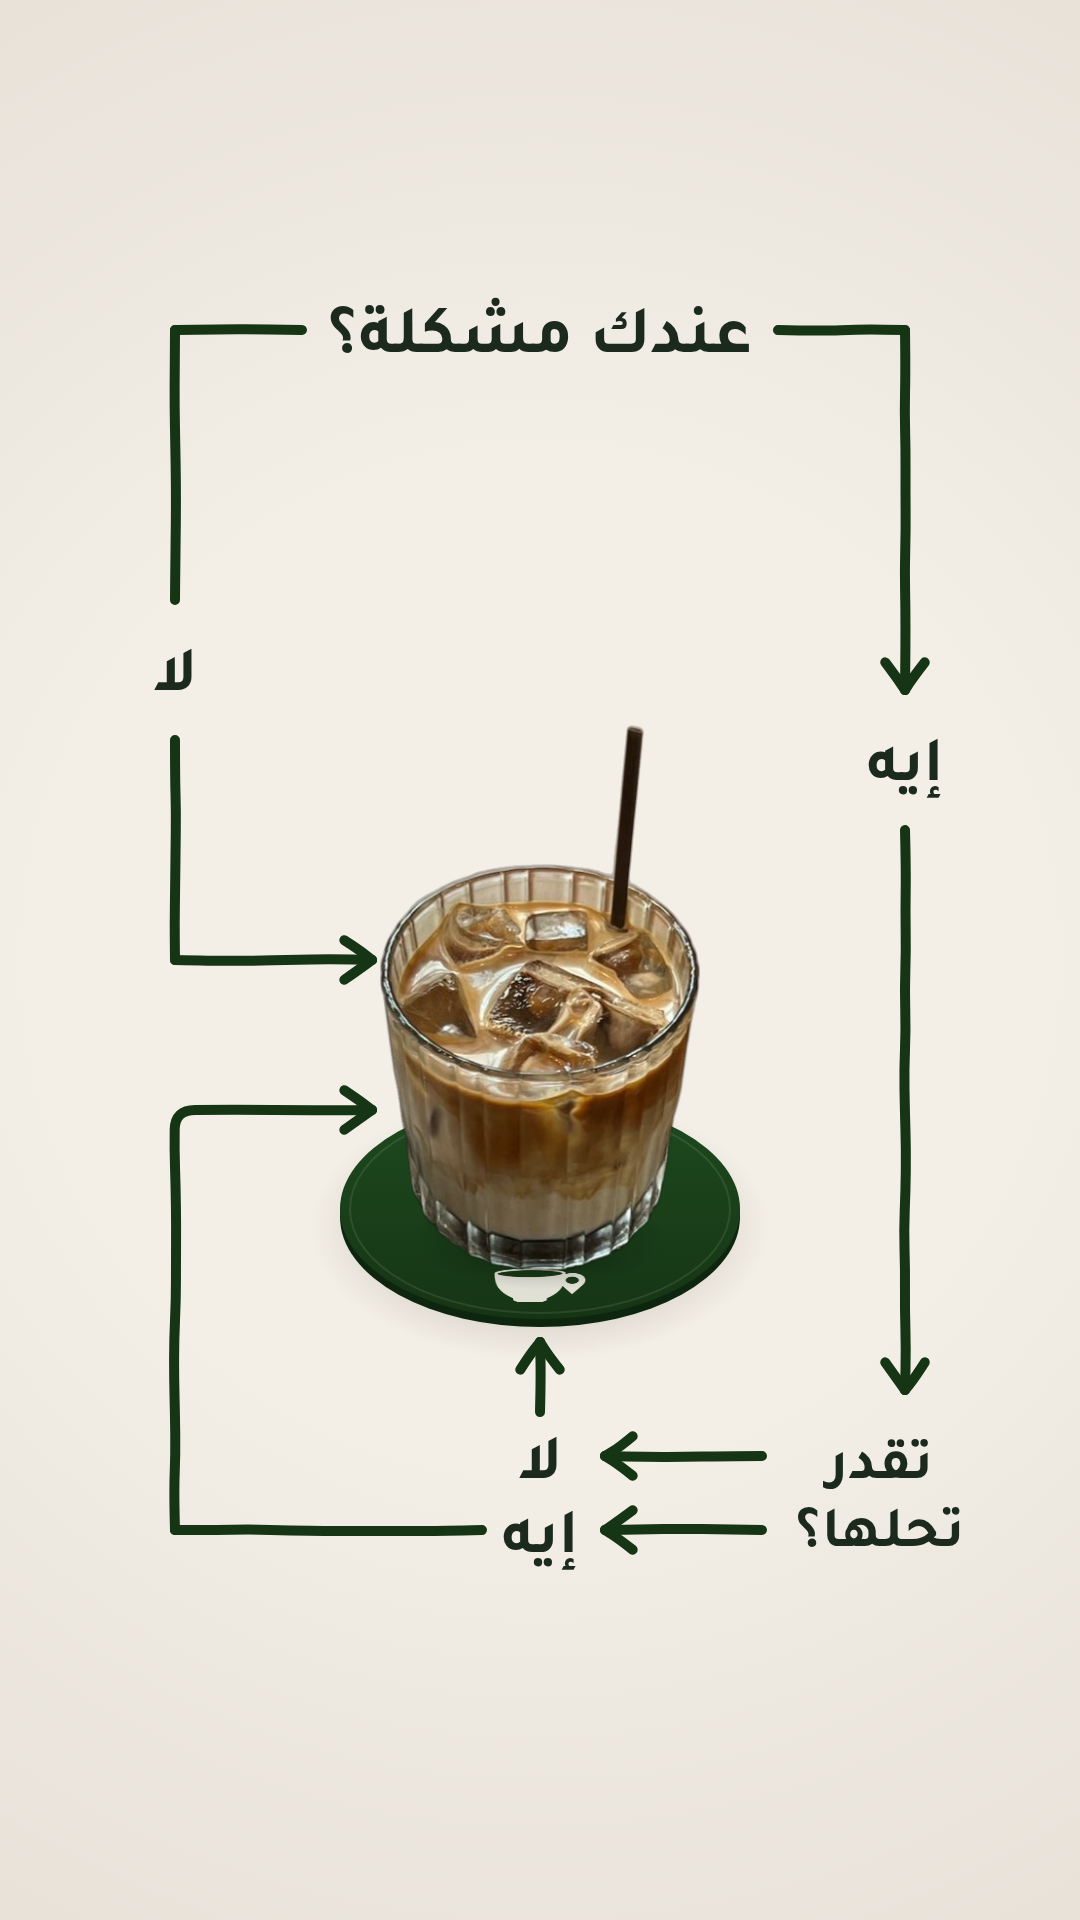
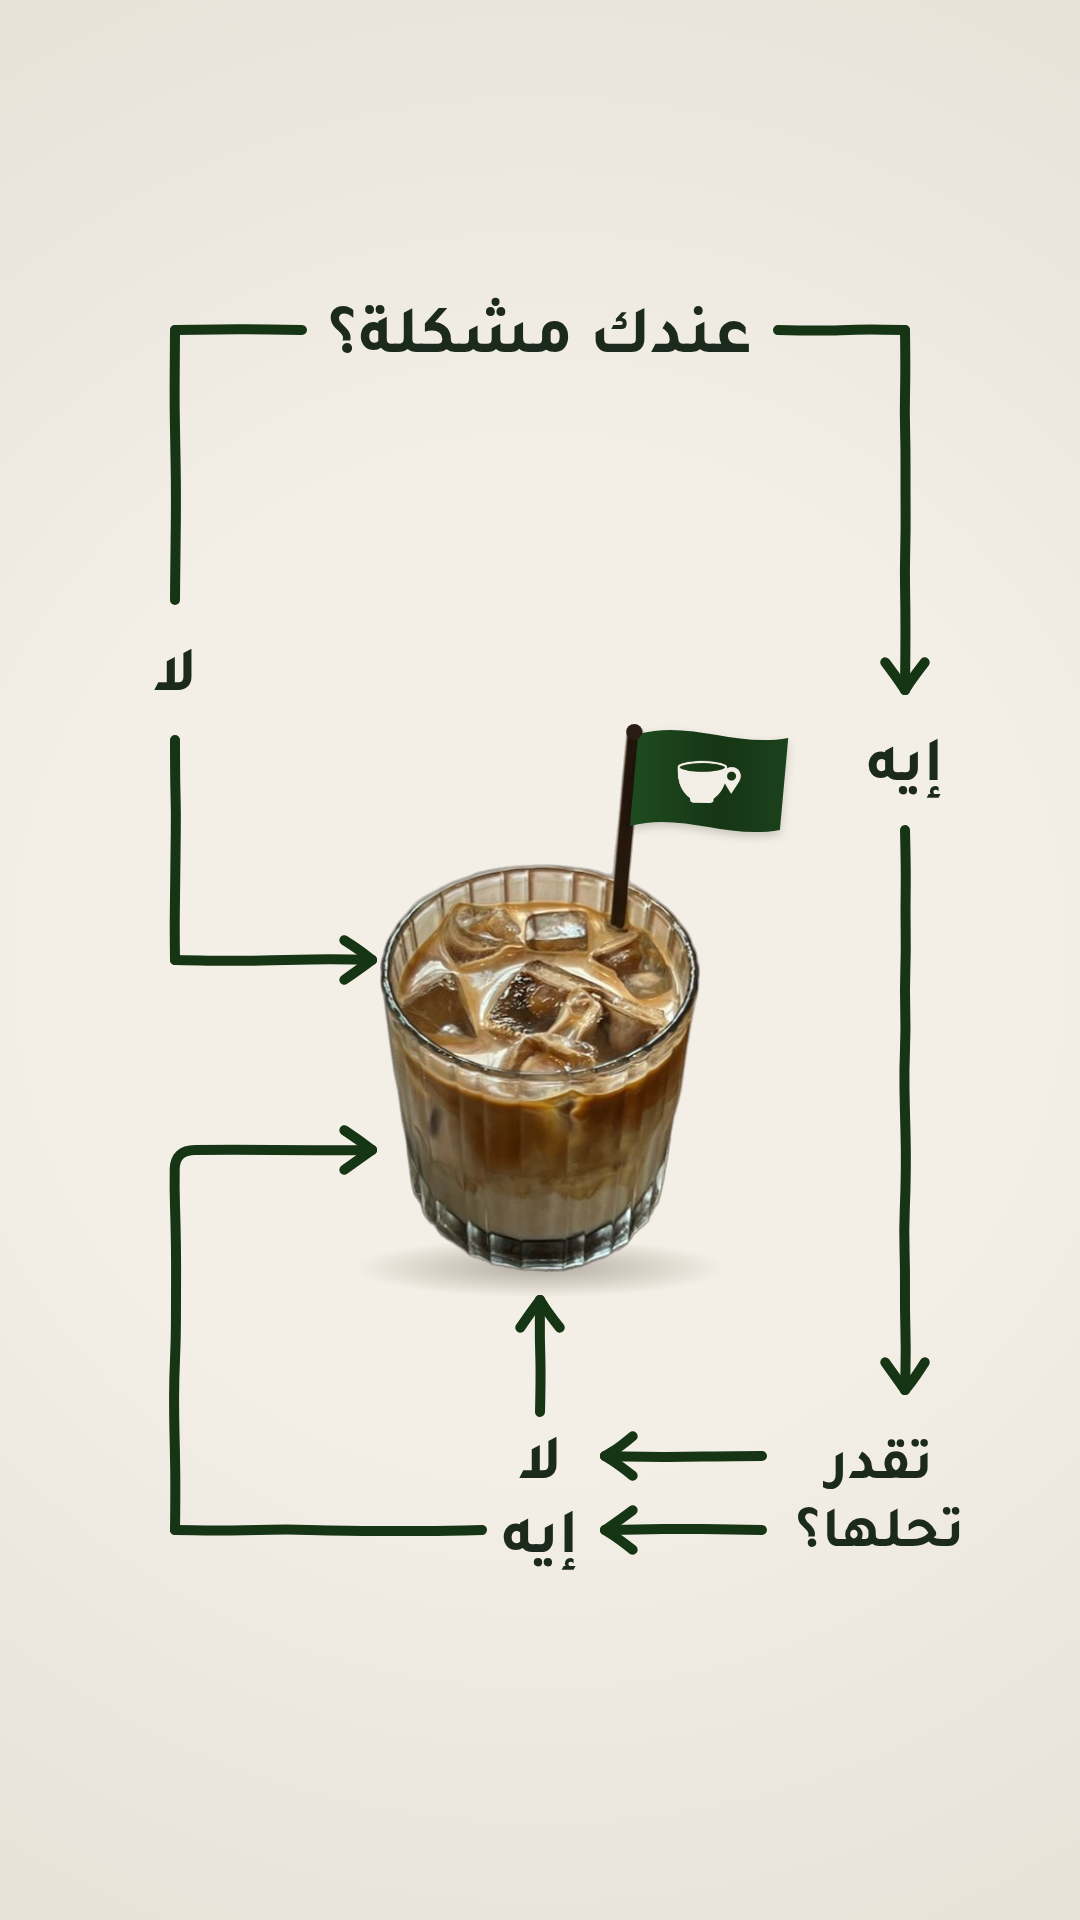
Flowchart story: BrewMaps flag on the straw instead of the coaster (Arabic and English)
Claude-Session: https://claude.ai/code/session_01UCKVHF8Bj15Neb29ir5cAN

Changed region(s): [[0.1528, 0.5625, 0.7028, 0.7188], [0.5806, 0.375, 0.7333, 0.4375]]

diff --git a/marketing/posts/coffee-flowchart-story/story.html b/marketing/posts/coffee-flowchart-story/story.html
@@ -42,25 +42,29 @@ window.ready = (async () => {
   hand([[175, 740], [175, 960]]); arrow([[175, 960], [372, 960]]);
   // the coffee, centred
   const cw = 320, ch = cw * cup.height / cup.width, cx = 540 - cw / 2, cy = 1272 - ch;
-  // the BrewMaps coaster: brand green, in the photo's perspective (ellipse ≈ 0.55 of its width), the cream mark printed
-  // on the front band; the glass stands on it
-  const bx = 540, by = 1209, rx = 200, ry = 110;
-  let sh = c.createRadialGradient(bx, by + 18, 20, bx, by + 18, 230); sh.addColorStop(0, 'rgba(30,22,10,0.30)'); sh.addColorStop(1, 'rgba(30,22,10,0)');
-  c.save(); c.translate(bx, by + 18); c.scale(1, 0.58); c.translate(-bx, -(by + 18)); c.fillStyle = sh; c.fillRect(bx - 240, by - 222, 480, 480); c.restore();
-  c.fillStyle = '#0E260F'; c.beginPath(); c.ellipse(bx, by + 8, rx, ry, 0, 0, Math.PI * 2); c.fill();          // the coaster's edge
-  let cg = c.createLinearGradient(0, by - ry, 0, by + ry); cg.addColorStop(0, '#1E4A1F'); cg.addColorStop(1, '#163514');
-  c.fillStyle = cg; c.beginPath(); c.ellipse(bx, by, rx, ry, 0, 0, Math.PI * 2); c.fill();                     // its top
-  c.save(); c.strokeStyle = 'rgba(244,239,230,0.10)'; c.lineWidth = 2; c.beginPath(); c.ellipse(bx, by, rx - 10, ry - 6, 0, 0, Math.PI * 2); c.stroke(); c.restore();
-  const mw = 92, mh = mw * mark.height / mark.width;
-  c.save(); c.translate(bx, by + 76); c.scale(1, 0.55); c.globalAlpha = 0.92; c.drawImage(mark, -mw / 2, -mh / 2, mw, mh); c.restore();   // the mark, lying flat on the front
-  const cs = c.createRadialGradient(bx, 1240, 5, bx, 1240, 125); cs.addColorStop(0, 'rgba(0,0,0,0.35)'); cs.addColorStop(1, 'rgba(0,0,0,0)');   // where the glass meets the coaster
-  c.save(); c.translate(bx, 1240); c.scale(1, 0.4); c.translate(-bx, -1240); c.fillStyle = cs; c.fillRect(bx - 130, 1110, 260, 260); c.restore();
+  const sh = c.createRadialGradient(540, 1268, 10, 540, 1268, 185); sh.addColorStop(0, 'rgba(40,30,15,0.3)'); sh.addColorStop(1, 'rgba(40,30,15,0)');
+  c.save(); c.translate(540, 1268); c.scale(1, 0.16); c.translate(-540, -1268); c.fillStyle = sh; c.fillRect(300, 1048, 480, 440); c.restore();
   c.drawImage(cup, cx, cy, cw, ch);
+  // the BrewMaps flag on the straw: a small pennant in brand green with the cream mark, hung from the straw's tip
+  // (the straw leans ~5° right as it rises), with a gentle wave in the cloth
+  { const s = cw / cup.width, tx = cx + 522 * s, ty = cy + 10 * s, ux = 0.091, L = 92, F = 150;   // tip, lean, hoist, fly
+    const p0 = [tx + 4, ty + 4], p1 = [tx + 4 - ux * L, ty + 4 + L];
+    const fg = c.createLinearGradient(p0[0], 0, p0[0] + F, 0); fg.addColorStop(0, '#1E4A1F'); fg.addColorStop(0.55, '#163514'); fg.addColorStop(1, '#1B421C');
+    c.save(); c.shadowColor = 'rgba(0,0,0,0.18)'; c.shadowBlur = 10; c.shadowOffsetY = 4; c.fillStyle = fg; c.beginPath();
+    c.moveTo(p0[0], p0[1]);
+    c.bezierCurveTo(p0[0] + F * 0.35, p0[1] - 14, p0[0] + F * 0.65, p0[1] + 14, p0[0] + F, p0[1] + 4);          // top edge, waving
+    c.lineTo(p1[0] + F, p1[1] + 4);
+    c.bezierCurveTo(p1[0] + F * 0.65, p1[1] + 14, p1[0] + F * 0.35, p1[1] - 14, p1[0], p1[1]);                  // bottom edge
+    c.closePath(); c.fill(); c.restore();
+    const mw = 64, mh = mw * mark.height / mark.width, mx = (p0[0] + p1[0]) / 2 + F * 0.5, my = (p0[1] + p1[1]) / 2 + 2;
+    c.save(); c.translate(mx, my); c.rotate(Math.atan2(4, F) * 0.5); c.drawImage(mark, -mw / 2, -mh / 2, mw, mh); c.restore();
+    c.fillStyle = '#2a1d16'; c.beginPath(); c.arc(tx, ty + 2, 8, 0, Math.PI * 2); c.fill();                       // the straw's tip over the hoist
+  }
   // from "تقدر تحلها؟": two arrows into the centred column لا / إيه
   arrow([[762, 1456], [605, 1456]]); arrow([[762, 1530], [605, 1530]]);
   ar('لا', 540, 1478, 64); ar('إيه', 540, 1552, 64);
-  arrow([[540, 1412], [540, 1342]]);                                   // لا → straight up into the middle of the glass
-  hand([[482, 1530], [175, 1530]]); arrow([[175, 1530], [175, 1110], [372, 1110]]);   // إيه → the long way round, still into the coffee
+  arrow([[540, 1412], [540, 1300]]);                                   // لا → straight up into the middle of the glass
+  hand([[482, 1530], [175, 1530]]); arrow([[175, 1530], [175, 1150], [372, 1150]]);   // إيه → the long way round, still into the coffee
   // v2: no logo at the foot; the line at the top says it
 })();
 window.png = () => document.getElementById('c').toDataURL('image/png');

diff --git a/marketing/posts/coffee-flowchart-story/story-en.html b/marketing/posts/coffee-flowchart-story/story-en.html
@@ -43,25 +43,29 @@ window.ready = (async () => {
   hand([[905, 740], [905, 960]]); arrow([[905, 960], [708, 960]]);
   // the coffee, centred
   const cw = 320, ch = cw * cup.height / cup.width, cx = 540 - cw / 2, cy = 1272 - ch;
-  // the BrewMaps coaster: brand green, in the photo's perspective (ellipse ≈ 0.55 of its width), the cream mark printed
-  // on the front band; the glass stands on it
-  const bx = 540, by = 1209, rx = 200, ry = 110;
-  let sh = c.createRadialGradient(bx, by + 18, 20, bx, by + 18, 230); sh.addColorStop(0, 'rgba(30,22,10,0.30)'); sh.addColorStop(1, 'rgba(30,22,10,0)');
-  c.save(); c.translate(bx, by + 18); c.scale(1, 0.58); c.translate(-bx, -(by + 18)); c.fillStyle = sh; c.fillRect(bx - 240, by - 222, 480, 480); c.restore();
-  c.fillStyle = '#0E260F'; c.beginPath(); c.ellipse(bx, by + 8, rx, ry, 0, 0, Math.PI * 2); c.fill();          // the coaster's edge
-  let cg = c.createLinearGradient(0, by - ry, 0, by + ry); cg.addColorStop(0, '#1E4A1F'); cg.addColorStop(1, '#163514');
-  c.fillStyle = cg; c.beginPath(); c.ellipse(bx, by, rx, ry, 0, 0, Math.PI * 2); c.fill();                     // its top
-  c.save(); c.strokeStyle = 'rgba(244,239,230,0.10)'; c.lineWidth = 2; c.beginPath(); c.ellipse(bx, by, rx - 10, ry - 6, 0, 0, Math.PI * 2); c.stroke(); c.restore();
-  const mw = 92, mh = mw * mark.height / mark.width;
-  c.save(); c.translate(bx, by + 76); c.scale(1, 0.55); c.globalAlpha = 0.92; c.drawImage(mark, -mw / 2, -mh / 2, mw, mh); c.restore();   // the mark, lying flat on the front
-  const cs = c.createRadialGradient(bx, 1240, 5, bx, 1240, 125); cs.addColorStop(0, 'rgba(0,0,0,0.35)'); cs.addColorStop(1, 'rgba(0,0,0,0)');   // where the glass meets the coaster
-  c.save(); c.translate(bx, 1240); c.scale(1, 0.4); c.translate(-bx, -1240); c.fillStyle = cs; c.fillRect(bx - 130, 1110, 260, 260); c.restore();
+  const sh = c.createRadialGradient(540, 1268, 10, 540, 1268, 185); sh.addColorStop(0, 'rgba(40,30,15,0.3)'); sh.addColorStop(1, 'rgba(40,30,15,0)');
+  c.save(); c.translate(540, 1268); c.scale(1, 0.16); c.translate(-540, -1268); c.fillStyle = sh; c.fillRect(300, 1048, 480, 440); c.restore();
   c.drawImage(cup, cx, cy, cw, ch);
+  // the BrewMaps flag on the straw: a small pennant in brand green with the cream mark, hung from the straw's tip
+  // (the straw leans ~5° right as it rises), with a gentle wave in the cloth
+  { const s = cw / cup.width, tx = cx + 522 * s, ty = cy + 10 * s, ux = 0.091, L = 92, F = 150;   // tip, lean, hoist, fly
+    const p0 = [tx + 4, ty + 4], p1 = [tx + 4 - ux * L, ty + 4 + L];
+    const fg = c.createLinearGradient(p0[0], 0, p0[0] + F, 0); fg.addColorStop(0, '#1E4A1F'); fg.addColorStop(0.55, '#163514'); fg.addColorStop(1, '#1B421C');
+    c.save(); c.shadowColor = 'rgba(0,0,0,0.18)'; c.shadowBlur = 10; c.shadowOffsetY = 4; c.fillStyle = fg; c.beginPath();
+    c.moveTo(p0[0], p0[1]);
+    c.bezierCurveTo(p0[0] + F * 0.35, p0[1] - 14, p0[0] + F * 0.65, p0[1] + 14, p0[0] + F, p0[1] + 4);          // top edge, waving
+    c.lineTo(p1[0] + F, p1[1] + 4);
+    c.bezierCurveTo(p1[0] + F * 0.65, p1[1] + 14, p1[0] + F * 0.35, p1[1] - 14, p1[0], p1[1]);                  // bottom edge
+    c.closePath(); c.fill(); c.restore();
+    const mw = 64, mh = mw * mark.height / mark.width, mx = (p0[0] + p1[0]) / 2 + F * 0.5, my = (p0[1] + p1[1]) / 2 + 2;
+    c.save(); c.translate(mx, my); c.rotate(Math.atan2(4, F) * 0.5); c.drawImage(mark, -mw / 2, -mh / 2, mw, mh); c.restore();
+    c.fillStyle = '#2a1d16'; c.beginPath(); c.arc(tx, ty + 2, 8, 0, Math.PI * 2); c.fill();                       // the straw's tip over the hoist
+  }
   // from "Can you solve it?": two arrows into the centred column NO / YES
   arrow([[330, 1456], [470, 1456]]); arrow([[330, 1530], [470, 1530]]);
   en('NO', 540, 1478, 58); en('YES', 540, 1552, 58);
-  arrow([[540, 1412], [540, 1342]]);                                   // NO → straight up into the middle of the glass
-  hand([[614, 1530], [905, 1530]]); arrow([[905, 1530], [905, 1110], [708, 1110]]);   // YES → the long way round, still into the coffee
+  arrow([[540, 1412], [540, 1300]]);                                   // NO → straight up into the middle of the glass
+  hand([[614, 1530], [905, 1530]]); arrow([[905, 1530], [905, 1150], [708, 1150]]);   // YES → the long way round, still into the coffee
   // v2: no logo at the foot; the line at the top says it
 })();
 window.png = () => document.getElementById('c').toDataURL('image/png');

diff --git a/marketing/posts/coffee-flowchart-story/README.md b/marketing/posts/coffee-flowchart-story/README.md
@@ -14,4 +14,4 @@ Re-render: `node render.js export/story-coffee-flowchart.png story.html`.
 
 ## BrewMaps touch
 
-The glass stands on a BrewMaps coaster: brand green, drawn in the photo's perspective, the cream cup-and-pin mark printed flat on its front band (both versions).
+A small BrewMaps flag hangs from the straw's tip: brand green, gently waving, the cream cup-and-pin mark on it (both versions).
